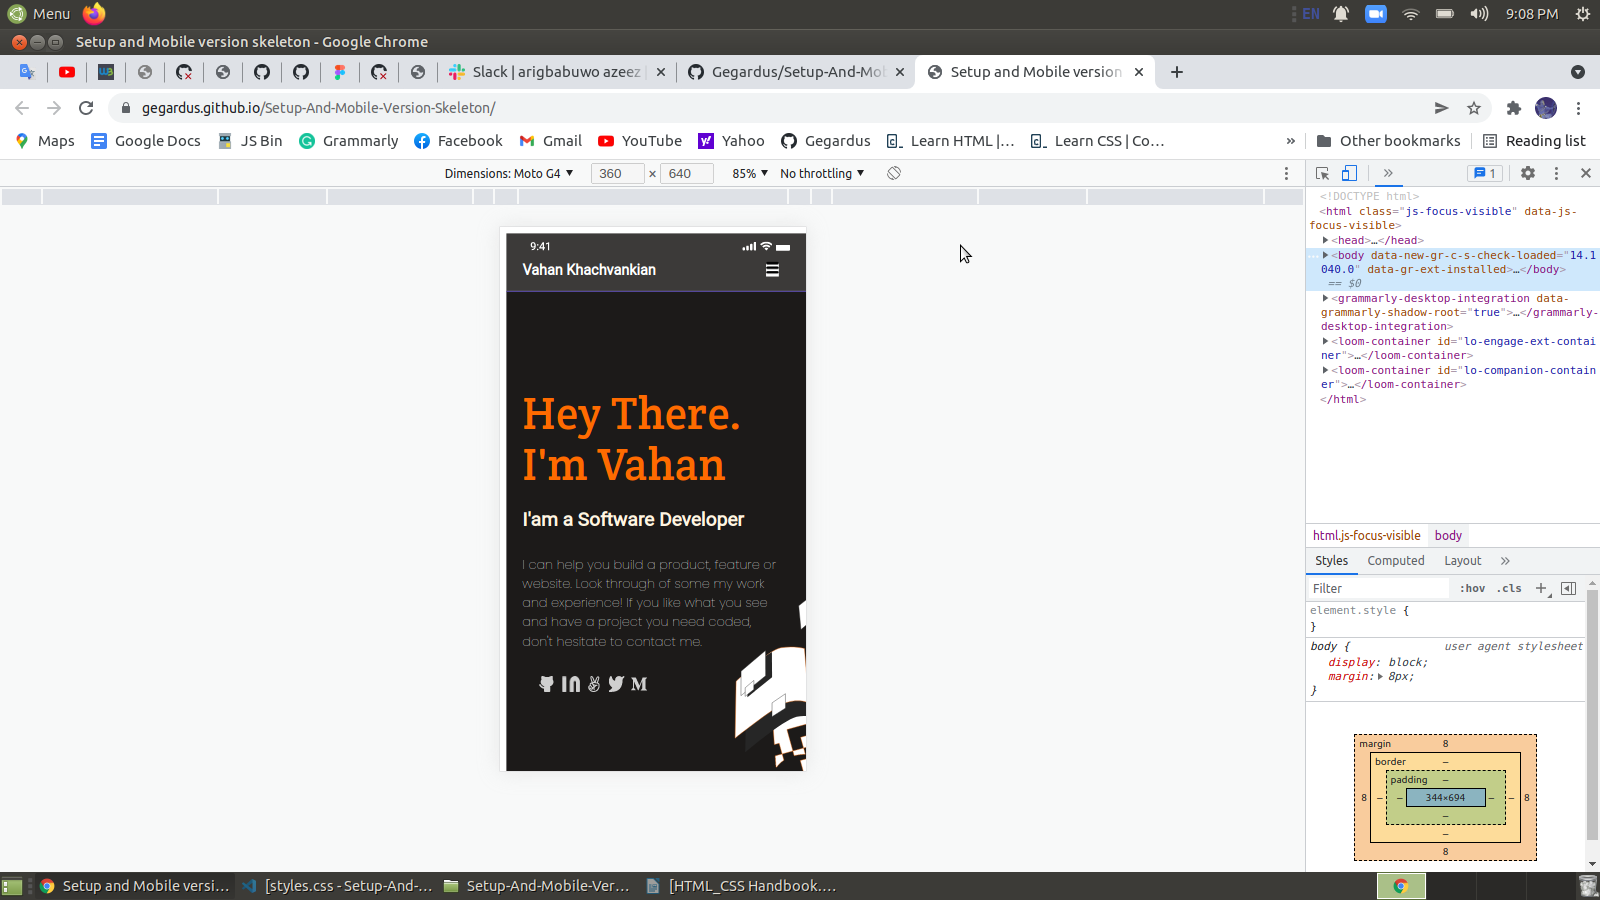
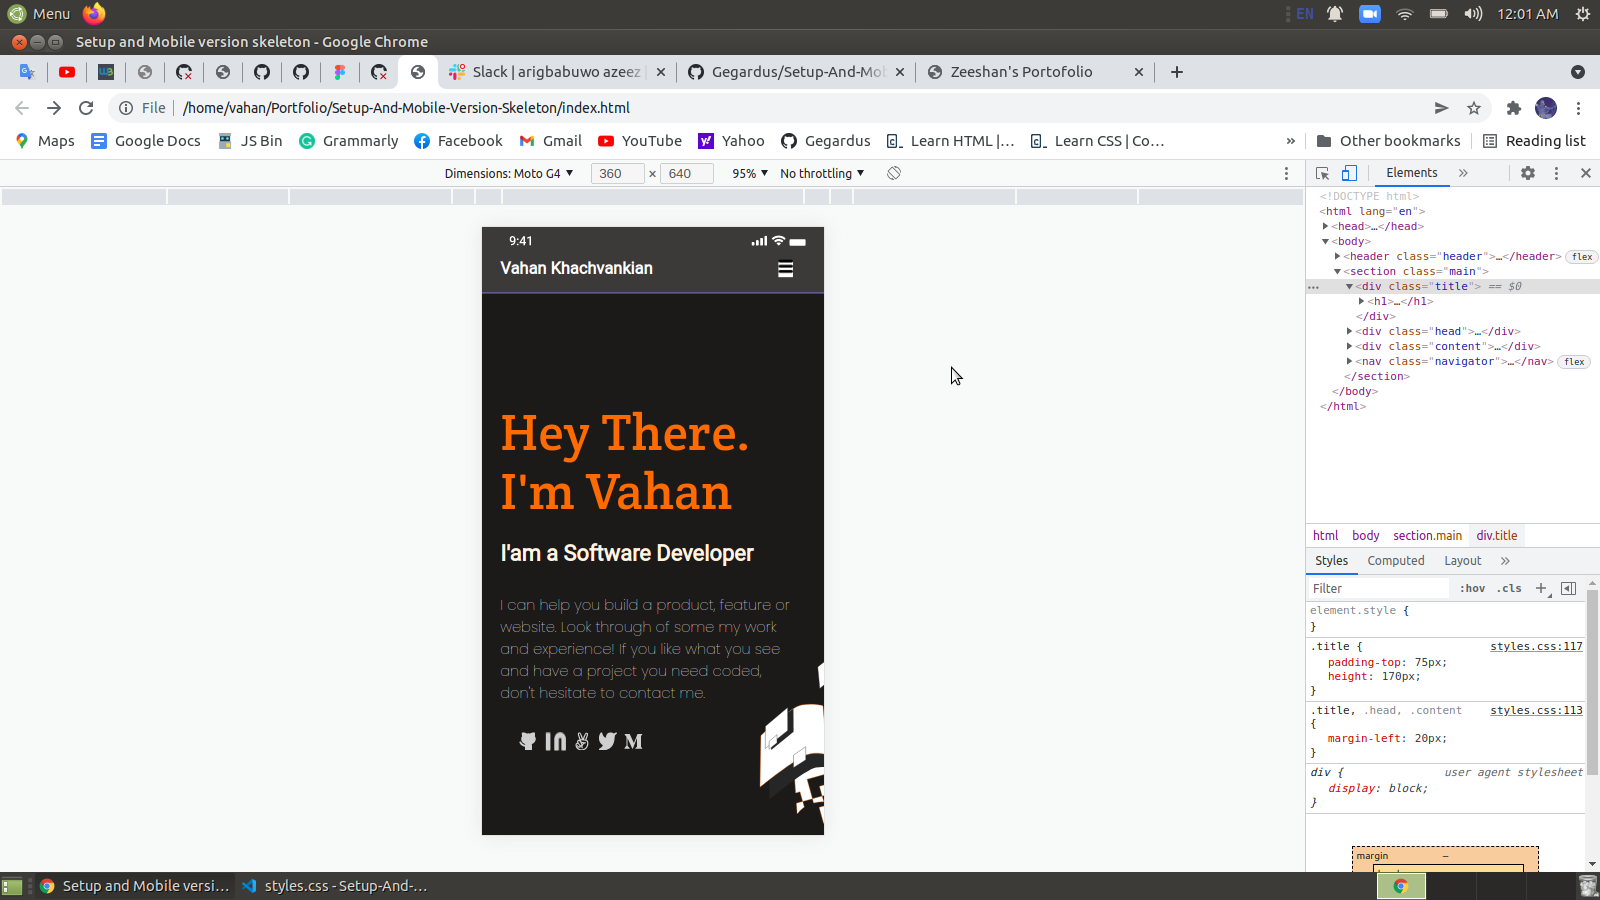
Change screenshot, add property in body

diff --git a/styles.css b/styles.css
@@ -4,14 +4,14 @@ body {
   margin: 0;
   padding: 0;
   box-sizing: border-box;
-  }
+  min-width: 375px;
+}
 
 a {
   text-decoration: none;
 }
 
 .header {
-  /* width: 375px; */
   height: 72px;
   background-color: #3c3a39;
   display: flex;
@@ -20,7 +20,6 @@ a {
 
 .scoreboard {
   height: 16px;
-  width: 375px;
   display: flex;
   flex-direction: row;
   justify-content: space-between;
@@ -41,7 +40,7 @@ a {
   border-top: 20px;
   height: 16px;
   width: 80px;
-  left: 0;  
+  left: 0;
   border-radius: 0;
   top: 8px;
   right: 5px;
@@ -105,8 +104,8 @@ a {
 .main {
   border-top: 1px solid slateblue;
   background: #1c1a19 url(assets/images/my-background-mobile.svg) 272px 340px no-repeat;
-  /* width: 375px; */
-  height: 621px;
+  background-size: 28% 48%;
+  height: 640px;
 }
 
 .title,
